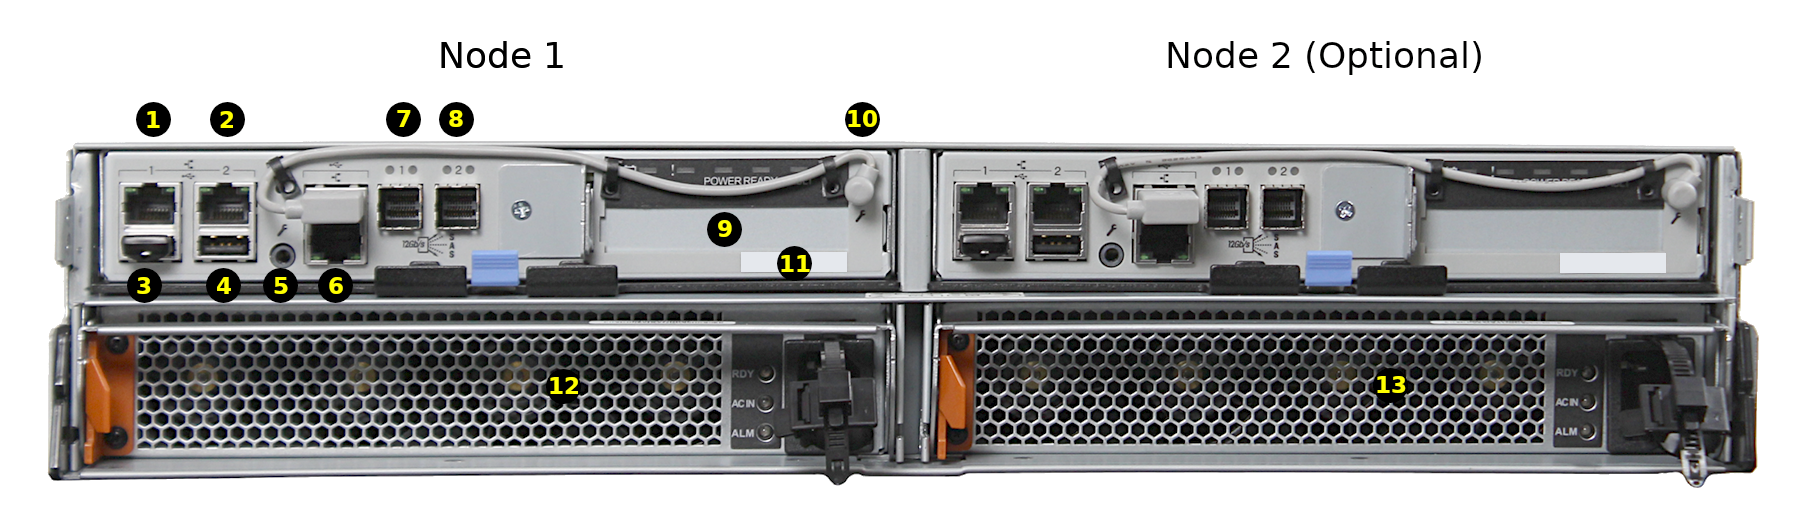
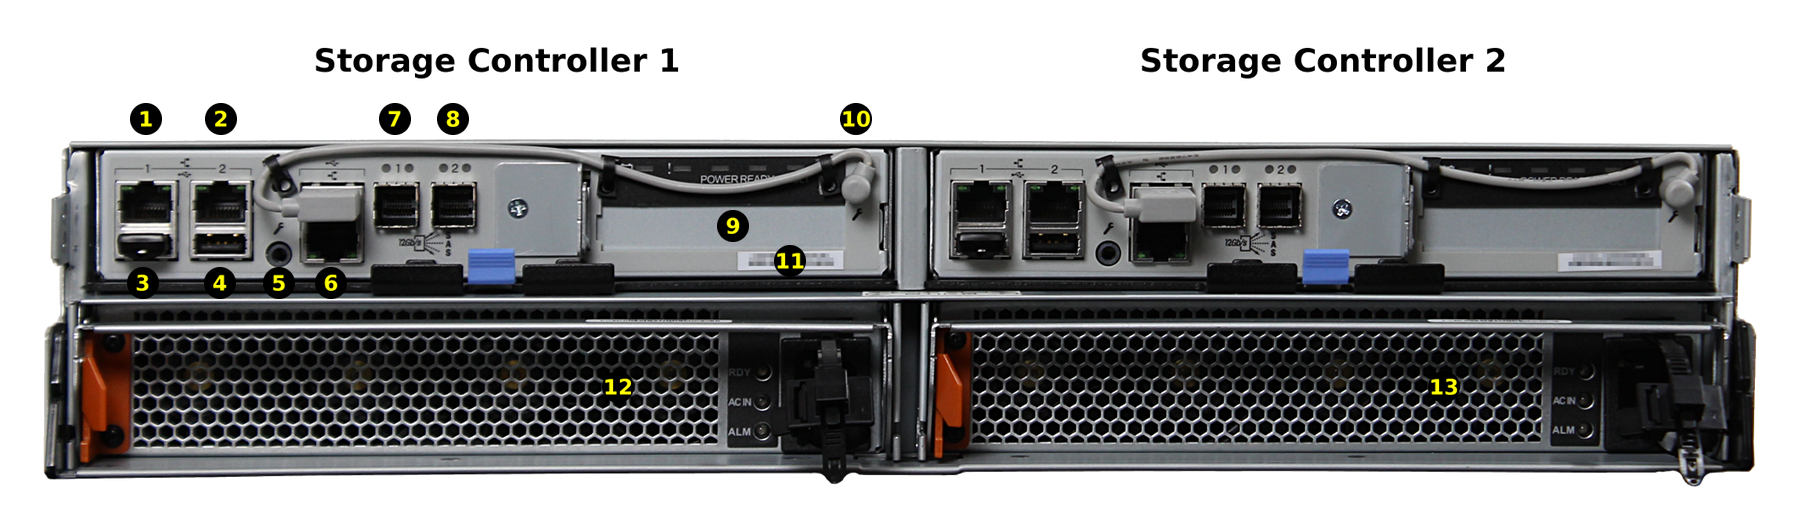
Update X series BSG with feedback from Andrew

diff --git a/userguide/snippets/xseries.rst b/userguide/snippets/xseries.rst
@@ -63,7 +63,8 @@ Become Familiar With the X Series System
 
 The X Series has front panel indicators for power, locate ID, and
 fault. The fault indicator is on during the initial power-on self-test
-(POST) or when the %brand% software has issued an
+(POST) and turns off during normal operation. It turns on if the
+%brand% software issues an
 `alert
 <https://support.ixsystems.com/truenasguide/tn_options.html#alert>`__.
 
@@ -71,11 +72,12 @@ fault. The fault indicator is on during the initial power-on self-test
 .. _x_indicators:
 
 .. figure:: images/tn_x_indicators.png
-   :width: 30%
+   :width: 50%
 
 
-The X Series contains one or two nodes in a side-by-side
-configuration. The connectors and features on each node are:
+The X Series contains one or two storage controllers in a side-by-side
+configuration. The connectors and features on each storage controller
+are:
 
 .. tabularcolumns:: |>{\RaggedRight}p{\dimexpr 0.5\linewidth-2\tabcolsep}
                     |>{\RaggedRight}p{\dimexpr 0.5\linewidth-2\tabcolsep}|
@@ -86,7 +88,7 @@ configuration. The connectors and features on each node are:
    +------------------------------------------------+-----------------------------------------------------+
    | 1,2: Gigabit Ethernet connectors               | 7,8: HDmini SAS3 connectors 1 and 2                 |
    +------------------------------------------------+-----------------------------------------------------+
-   | 3: USB device (reserved)                       | 9: PCIe x8 expansion port                           |
+   | 3: USB device (reserved, *do not remove*)      | 9: PCIe x8 expansion port                           |
    +------------------------------------------------+-----------------------------------------------------+
    | 4: USB 2.0 connector                           | 10: System console port (reserved)                  |
    +------------------------------------------------+-----------------------------------------------------+
@@ -193,9 +195,10 @@ addresses requested by the user.
 Otherwise, the Out-of-Band management IP addresses are set by default
 to static addresses:
 
-Node 1: *192.168.100.100*, subnet mask *255.255.255.0*
+Storage controller 1: *192.168.100.100*, subnet mask *255.255.255.0*
 
-Node 2 (if present): *192.168.100.101*, subnet mask *255.255.255.0*
+Storage controller 2 (if present): *192.168.100.101*, subnet mask
+*255.255.255.0*
 
 
 DHCP
@@ -204,7 +207,8 @@ DHCP
 If the Out-of-Band management IP address has been configured to be
 assigned by DHCP, the IP address assigned by the DHCP server can be
 determined by checking the local DHCP server logs for the MAC
-addresses on the back panel of each X series node, #11 on
+addresses on the back panel of each X series storage controller, #11
+on
 :numref:`Figure %s <x_back>`.
 
 The local DHCP server can also be configured to provide a fixed IP

diff --git a/userguide/snippets/x_drivetrays.rst b/userguide/snippets/x_drivetrays.rst
@@ -16,7 +16,7 @@ strongly recommended:
 
 * SSD drives for L2ARC, if present
 
-* Hard drives
+* Hard drives or SSD drives for data storage
 
 * Air baffle filler trays to fill any remaining empty bays
 
